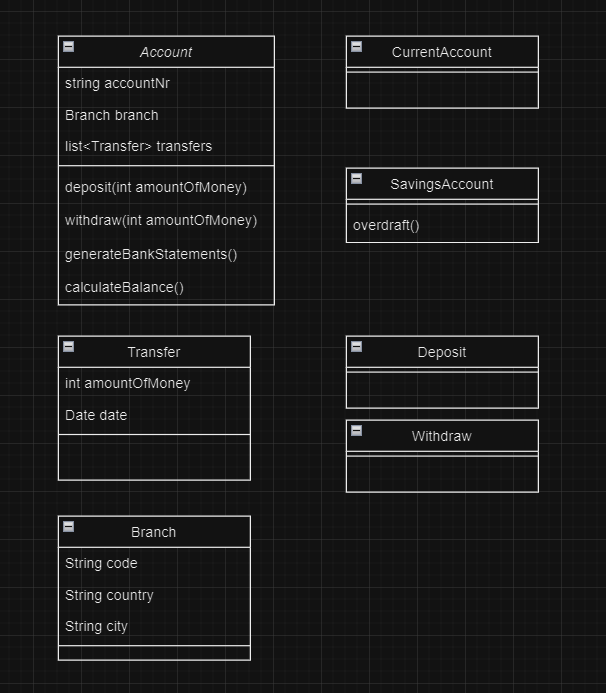
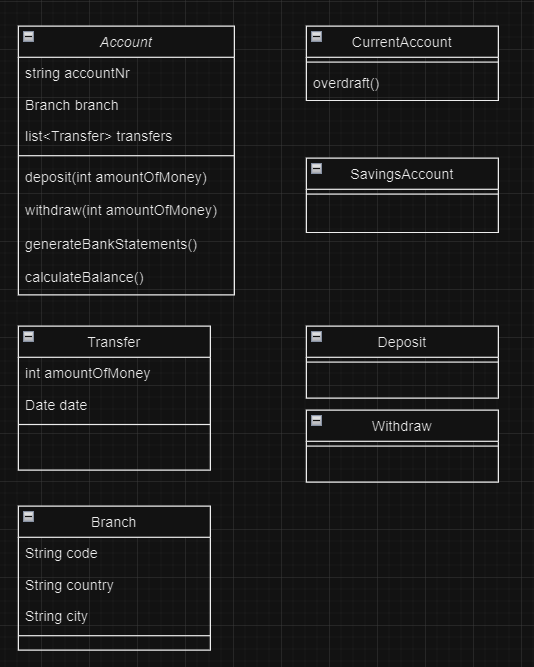
Updated domain model and class model

diff --git a/DomainModel.md b/DomainModel.md
@@ -1,32 +1,24 @@
 # Domain Model
 
-| Class                    | methods                     | attributes                                                | scenario                                  | output |
-|--------------------------|-----------------------------|-----------------------------------------------------------|-------------------------------------------|--------|
-| Account                  |                             | string accountNr, Branch branch, list<Transfer> transfers |                                           |        |
-|                          | deposit(int amountOfMoney)  |                                                           | deposit money to account                  |        |
-|                          | withdraw(int amountOfMoney) |                                                           | withdraw money from account               |        |
-|                          | generateBankStatements()    |                                                           | generate nicely formatted bank statements | String |
-|                          | calculateBalance()          |                                                           | calculates current balance                | double |
-|                          |                             |                                                           |                                           |        |
-| CurrentAccount : Account |                             |                                                           |                                           |        |
-|                          |                             |                                                           |                                           |        |
-|                          |                             |                                                           |                                           |        |
-| SavingsAccount : Account |                             |                                                           |                                           |        |
-|                          | overdraft()                 |                                                           | if overdraft is possible (less than 500)  | true   |
-|                          |                             |                                                           | if overdraft is not possible              | false  |
-| Transfer                 |                             | int amountOfMoney, Date date                              |                                           |        |
-|                          |                             |                                                           |                                           |        |
-| Deposit : Transfer       |                             |                                                           |                                           |        |
-|                          |                             |                                                           |                                           |        |
-| Withdraw : Transfer      |                             |                                                           |                                           |        |
-|                          |                             |                                                           |                                           |        |
-| Branch                   |                             | string code, String country, String city                  |                                           |        |
-|                          |                             |                                                           |                                           |        |
-|                          |                             |                                                           |                                           |        |
-|                          |                             |                                                           |                                           |        |
-|                          |                             |                                                           |                                           |        |
-|                          |                             |                                                           |                                           |        |
-|                          |                             |                                                           |                                           |        |
-|                          |                             |                                                           |                                           |        |
-|                          |                             |                                                           |                                           |        |
-|                          |                             |                                                           |                                           |        |
+| Class                    | methods                     | attributes                                                | scenario                                            | output |
+|--------------------------|-----------------------------|-----------------------------------------------------------|-----------------------------------------------------|--------|
+| Account                  |                             | string accountNr, Branch branch, list<Transfer> transfers |                                                     |        |
+|                          | deposit(int amountOfMoney)  |                                                           | deposit money to account                            |        |
+|                          | withdraw(int amountOfMoney) |                                                           | withdraw money from account                         |        |
+|                          | generateBankStatements()    |                                                           | generate nicely formatted bank statements           | String |
+|                          | calculateBalance()          |                                                           | calculates current balance                          | double |
+|                          |                             |                                                           |                                                     |        |
+| CurrentAccount : Account |                             |                                                           |                                                     |        |
+|                          | overdraft()                 |                                                           | throws an IllegalStateException if overdraft occurs |        |
+|                          |                             |                                                           | if there is no overdraft                            | false  |
+|                          |                             |                                                           |                                                     |        |
+| SavingsAccount : Account |                             |                                                           |                                                     |        |
+|                          |                             |                                                           |                                                     |        |
+| Transfer                 |                             | int amountOfMoney, Date date                              |                                                     |        |
+|                          |                             |                                                           |                                                     |        |
+| Deposit : Transfer       |                             |                                                           |                                                     |        |
+|                          |                             |                                                           |                                                     |        |
+| Withdraw : Transfer      |                             |                                                           |                                                     |        |
+|                          |                             |                                                           |                                                     |        |
+| Branch                   |                             | string code, String country, String city                  |                                                     |        |
+|                          |                             |                                                           |                                                     |        |
